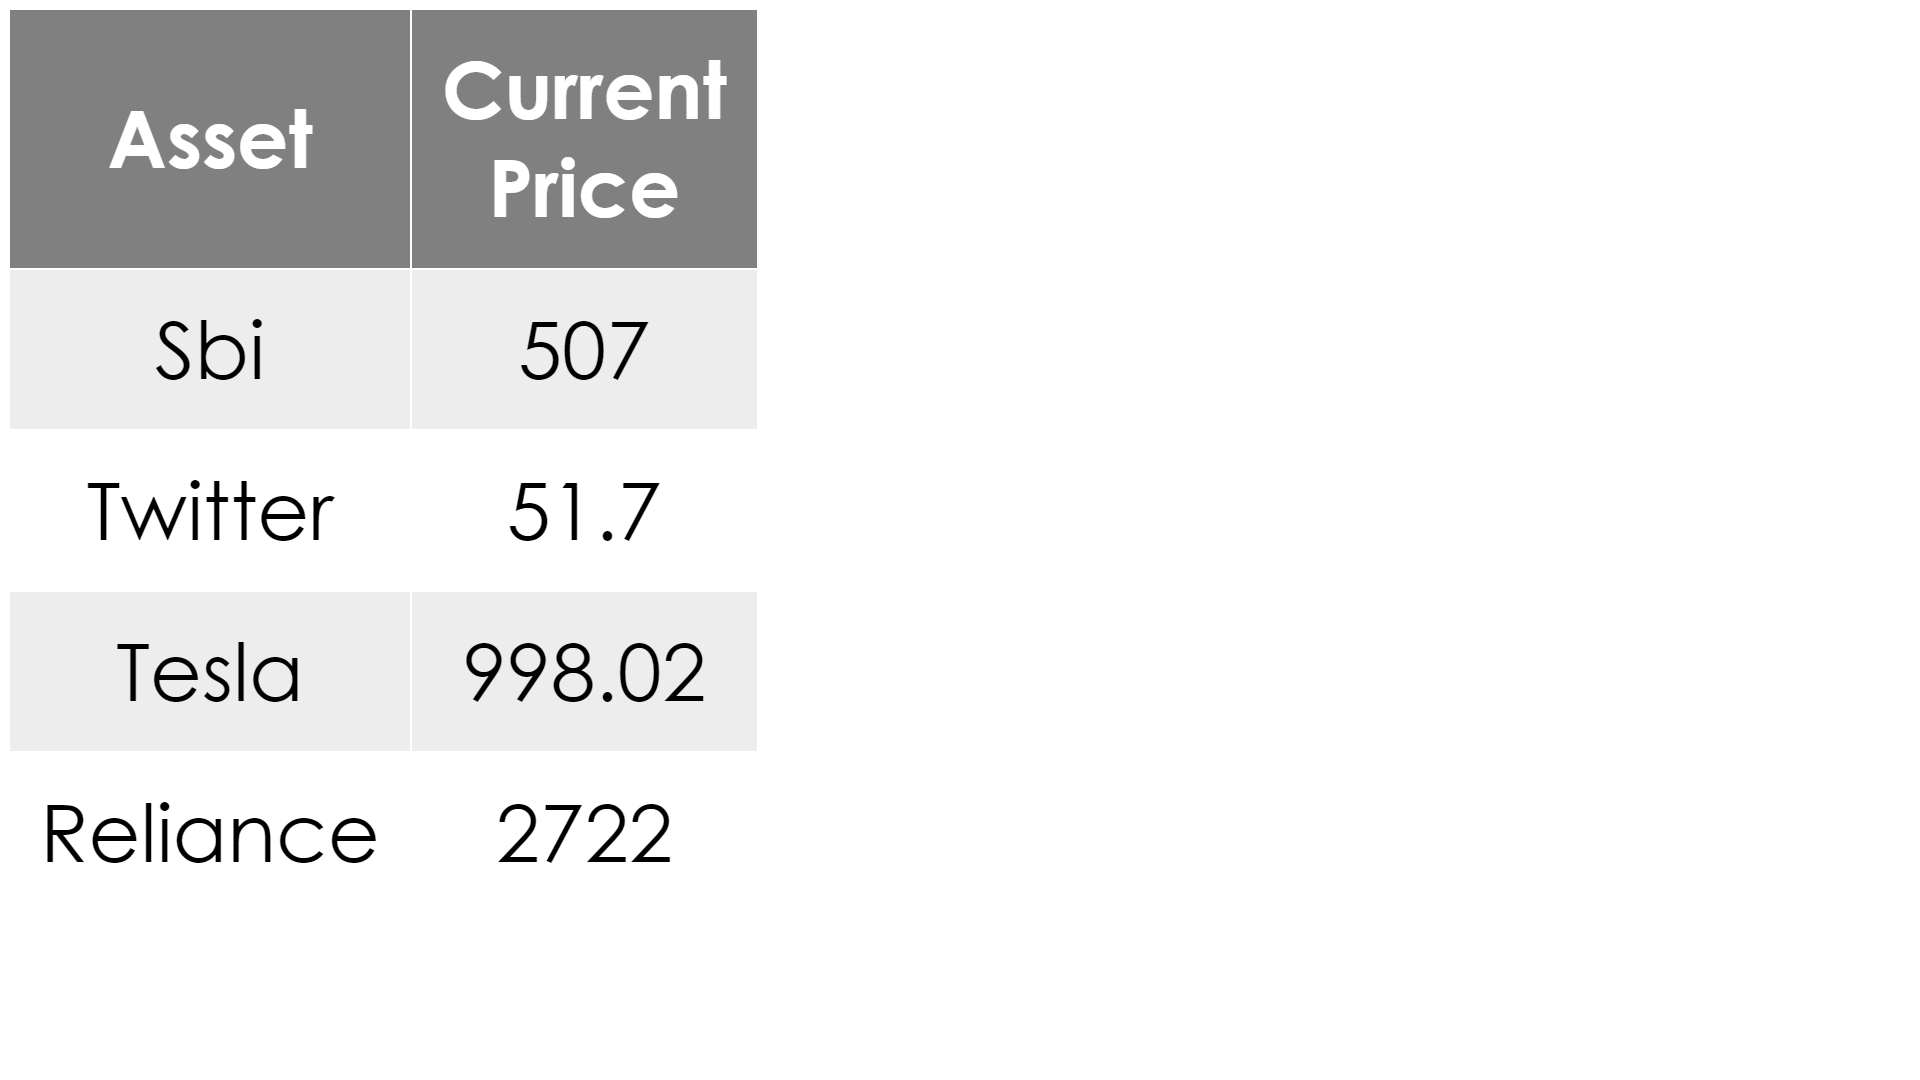
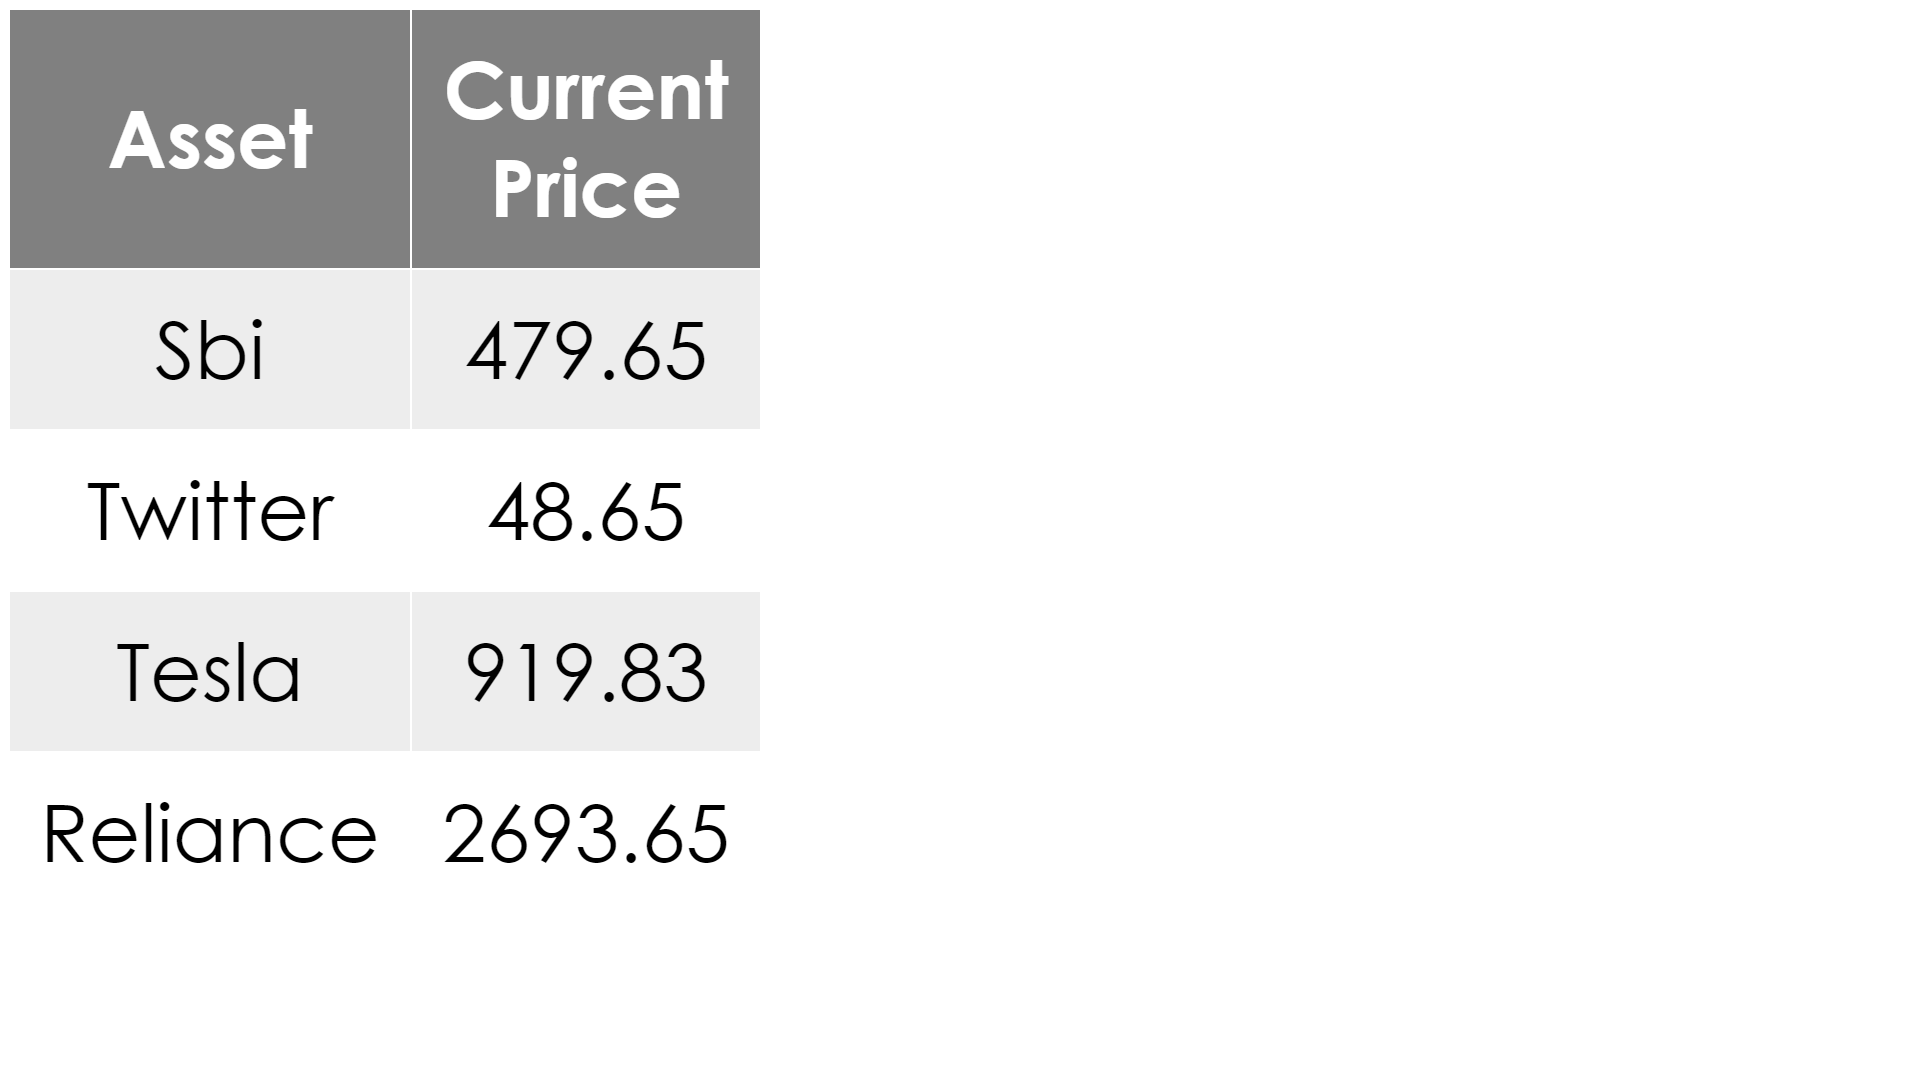
resolved renko chart bug

diff --git a/styled_table.html b/styled_table.html
@@ -8,19 +8,19 @@
   <tbody>
     <tr>
       <td style = "background-color: #EDEDED;font-family: Century Gothic, sans-serif;font-size: 80px;text-align: center;padding: 30px;width: 220px">Sbi</td>
-      <td style = "background-color: #EDEDED;font-family: Century Gothic, sans-serif;font-size: 80px;text-align: center;padding: 30px;width: 220px">507</td>
+      <td style = "background-color: #EDEDED;font-family: Century Gothic, sans-serif;font-size: 80px;text-align: center;padding: 30px;width: 220px">479.65</td>
     </tr>
     <tr>
       <td style = "background-color: white; color: black;font-family: Century Gothic, sans-serif;font-size: 80px;text-align: center;padding: 30px;width: 220px">Twitter</td>
-      <td style = "background-color: white; color: black;font-family: Century Gothic, sans-serif;font-size: 80px;text-align: center;padding: 30px;width: 220px">51.7</td>
+      <td style = "background-color: white; color: black;font-family: Century Gothic, sans-serif;font-size: 80px;text-align: center;padding: 30px;width: 220px">48.65</td>
     </tr>
     <tr>
       <td style = "background-color: #EDEDED;font-family: Century Gothic, sans-serif;font-size: 80px;text-align: center;padding: 30px;width: 220px">Tesla</td>
-      <td style = "background-color: #EDEDED;font-family: Century Gothic, sans-serif;font-size: 80px;text-align: center;padding: 30px;width: 220px">998.02</td>
+      <td style = "background-color: #EDEDED;font-family: Century Gothic, sans-serif;font-size: 80px;text-align: center;padding: 30px;width: 220px">919.83</td>
     </tr>
     <tr>
       <td style = "background-color: white; color: black;font-family: Century Gothic, sans-serif;font-size: 80px;text-align: center;padding: 30px;width: 220px">Reliance</td>
-      <td style = "background-color: white; color: black;font-family: Century Gothic, sans-serif;font-size: 80px;text-align: center;padding: 30px;width: 220px">2722</td>
+      <td style = "background-color: white; color: black;font-family: Century Gothic, sans-serif;font-size: 80px;text-align: center;padding: 30px;width: 220px">2693.65</td>
     </tr>
   </tbody>
 </table></p>

diff --git a/main.py b/main.py
@@ -372,6 +372,7 @@ def getCompanyNameAndTicker(query):
         # speak(results)
 ##########################################################################################
 
+
 def stockException(query):
     vocal_results = f"This data is not available for indices or bitcoins"
     speak(vocal_results)
@@ -390,6 +391,8 @@ def companyException(query):
     return results
 
 ##########################################################################################
+
+
 def dataExceptions(query):
     vocal_results = f"Sorry, the data is not available"
     speak(vocal_results)
@@ -1366,6 +1369,8 @@ def displayMaxLine(query):
         dataExceptions(query)
 
 ##########################################################################################################################
+
+
 def displayRenkoChart(query):
     global companyData
 
@@ -1373,20 +1378,22 @@ def displayRenkoChart(query):
         compNameAndTicker = getCompanyNameAndTicker(query)
         company_name, ticker = compNameAndTicker[0], compNameAndTicker[1]
 
-        start_date = datetime.today() - timedelta(1825)  # getting data of around 5 years.
+        # getting data of around 5 years.
+        start_date = datetime.today() - timedelta(1825)
         end_date = datetime.today()
         ohlcv = yf.download(ticker, start_date, end_date)
 
-        bricks = round(ATR(ohlcv, 50)["ATR"][-1], 0)  # capturing the latest ATR
+        # capturing the latest ATR
+        bricks = round(ATR(ohlcv, 50)["ATR"][-1], 0)
         # rounding off the result to an integer.
 
         file = 'images/' + company_name.lower() + '-renko.png'
-        
+
         if os.path.exists(file):
             os.remove(file)
 
         mpf.plot(ohlcv, type='renko', renko_params=dict(brick_size=bricks, atr_length=14),
-                 style='yahoo', figsize=(18, 7), savefig=file,
+                 style='yahoo', savefig=file,
                  title=f"RENKO CHART WITH ATR {company_name} - {ticker}")
 
         speak(f"Here is the renko chart of {company_name}")
@@ -1401,15 +1408,20 @@ def ATR(DF, n):
     df = DF.copy()  # making copy of the original dataframe
 
     df['H-L'] = abs(df['High'] - df['Low'])
-    df['H-PC'] = abs(df['High'] - df['Adj Close'].shift(1))  # high -previous close
-    df['L-PC'] = abs(df['Low'] - df['Adj Close'].shift(1))  # low - previous close
-    df['TR'] = df[['H-L', 'H-PC', 'L-PC']].max(axis=1, skipna=False)  # True range
+    df['H-PC'] = abs(df['High'] - df['Adj Close'].shift(1)
+                     )  # high -previous close
+    df['L-PC'] = abs(df['Low'] - df['Adj Close'].shift(1)
+                     )  # low - previous close
+    df['TR'] = df[['H-L', 'H-PC', 'L-PC']
+                  ].max(axis=1, skipna=False)  # True range
     df['ATR'] = df['TR'].rolling(n).mean()  # average –true range
-    df = df.drop(['H-L', 'H-PC', 'L-PC'], axis=1)  # dropping the unneccesary columns
+    # dropping the unneccesary columns
+    df = df.drop(['H-L', 'H-PC', 'L-PC'], axis=1)
     df.dropna(inplace=True)  # droping null items
 
     return df
 ##########################################################################################################################
+
 
 def googleSearch(query):
     search_term = query.split("for")[-1]
